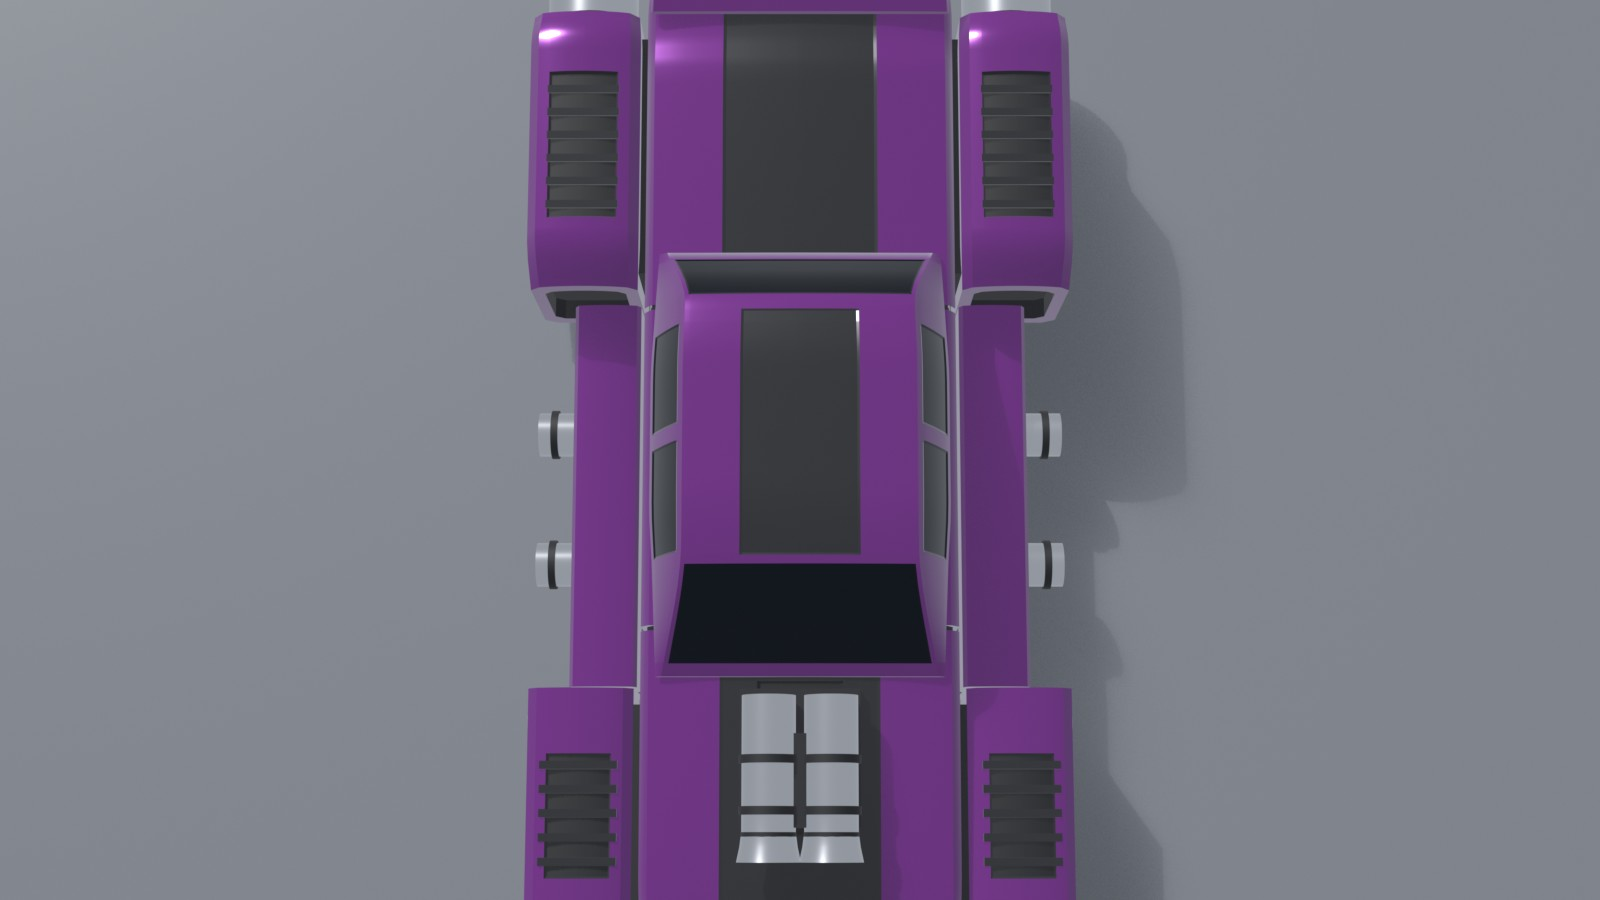
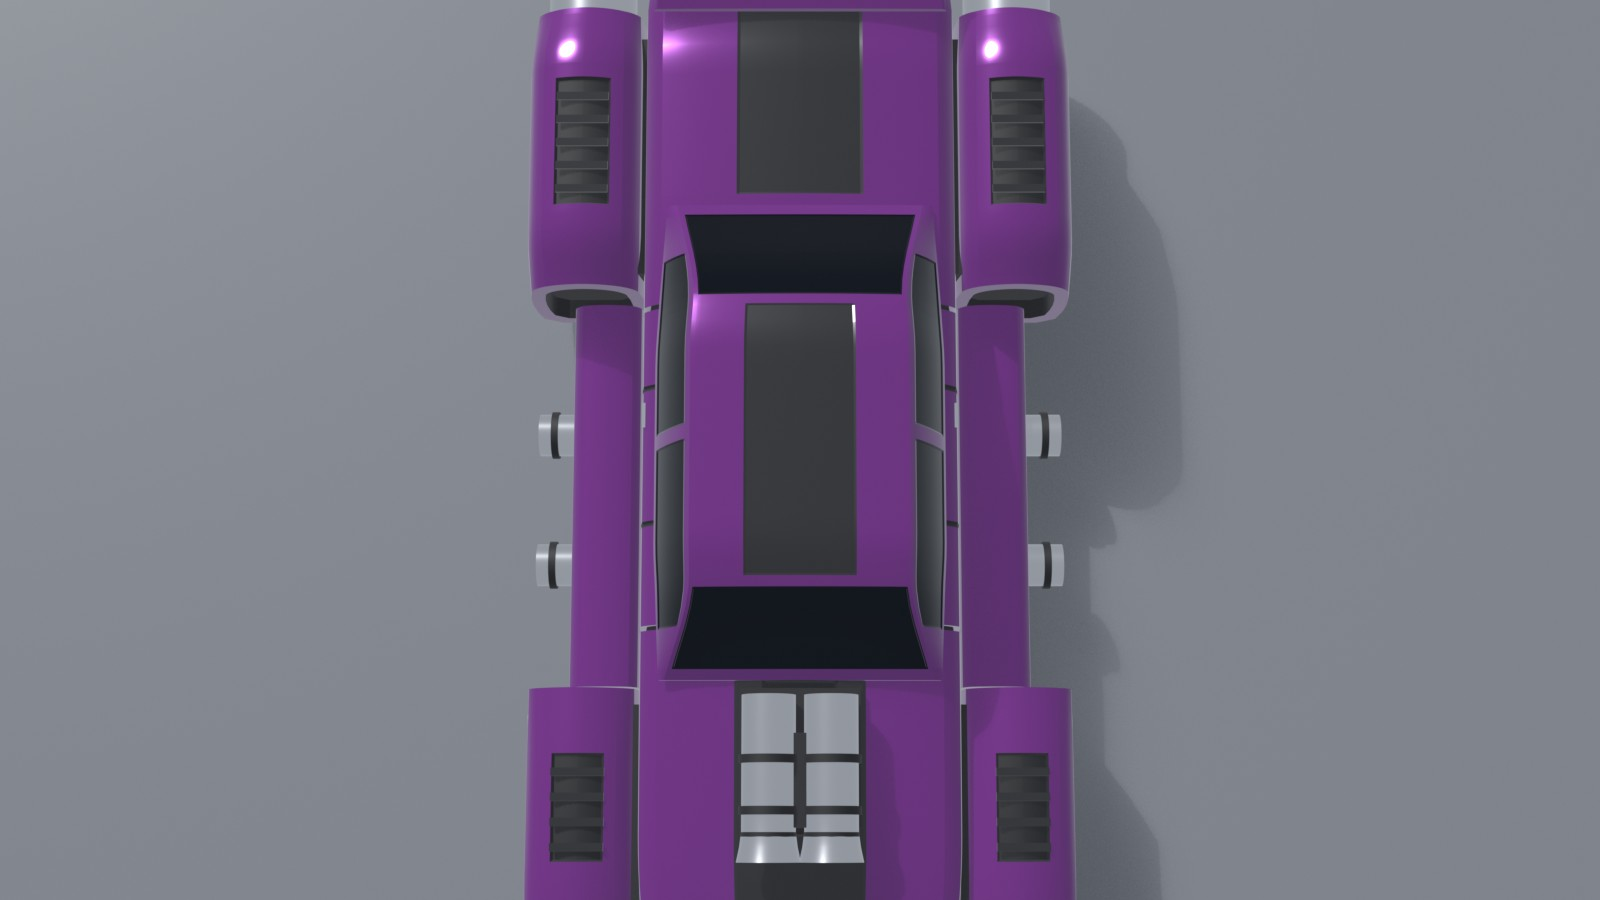
mesh: Brawler pass 2, less boxy: body tumblehome and crown, fender-shaped pods, longer glasshouse

diff --git a/scripts/exotic_category/categories/muscle/mesh/muscle_cars.py b/scripts/exotic_category/categories/muscle/mesh/muscle_cars.py
@@ -3,9 +3,12 @@
     import muscle_cars; muscle_cars.build_all()
 
 Hero car first (gate 1): F = muscle_06 Brawler, after the Dodge Challenger SRT Demon. STD trim only so far.
-Design language of F: blunt upright nose with a full-width slot grille, halo lamp pairs on the front pods,
-twin shaker turbine through the bonnet, flat slab sides, short notchback cabin, square tail with one
-full-width light bar, giant round barrels on the rear pods, fat bazookas in the sills, ducktail lip.
+Design language of F: blunt nose that tapers in plan, deep full-width slot grille, halo lamp pairs on the
+front pods, twin shaker turbine through a raised bonnet bulge, long bonnet, low glasshouse with a fast rear
+window and a short deck, hips that rise over the rear pods, square tail with one full-width light bar,
+giant round barrels on the rear pods, fat bazookas in the sills, ducktail lip.
+Pass 2 (2026-10-04): less boxy. The body has tumblehome and crown, the pods are fenders with rounded
+shoulders instead of plain boxes, and the cabin is longer and lower at the back.
 """
 import os
 
@@ -73,154 +76,161 @@ def flange(z0, z1, y0, y1):
         "detail", mirror=True)
 
 
-def tub():
-    """The body between the two seams. Every cockpit uses it unchanged."""
-    Hull([(Z_F, SEAM_F), (Z_R, SEAM_R)]).build("tub", "primary", t0=Z_F + GAP, t1=Z_R - GAP, regions=[
-        R(Z_F + GAP, Z_R - GAP, 0.0, 2.35, "secondary", 0.02)])
+def tub(doors=(-2.1, 1.3)):
+    """The body between the two seams, with door shut lines. Every cockpit uses the same section."""
+    regs = [R(Z_F + GAP, Z_R - GAP, 0.0, 2.0, "secondary", 0.02)]
+    regs += [R(z, z + 0.14, 2.05, 3.95, "detail", 0.03) for z in doors]
+    Hull([(Z_F, SEAM_F), (Z_R, SEAM_R)]).build("tub", "primary", t0=Z_F + GAP, t1=Z_R - GAP, regions=regs)
     Hull([(Z_F - 0.08, SEAM_F), (Z_R + 0.08, SEAM_R)]).build("liner", "detail", scale=0.96)
+    box("handle", (M.BODY_W - 0.02, 2.62, doors[1] - 0.6), (0.08, 0.1, 0.6), "metal", mirror=True)
 
 
 # ---------------------------------------------------------------- car F: Brawler (muscle_06)
 
 def f_cockpit():
-    """Short upright notchback cabin with a low glasshouse."""
+    """Low glasshouse: raked windscreen, long doors, a fast rear window down to a short deck."""
     K.begin("F", "COCKPIT")
     tub()
-    gh = Hull([(-5.8, dict(w=3.5, yb=2.9, yt=3.02, ys=2.95, tum=0.15, drop=0.02)),
-               (-3.1, dict(w=3.6, yt=5.1, tum=0.8)),
-               (-1.6, dict(yt=5.34)), (1.4, dict(yt=5.34)),
-               (3.0, dict(w=3.6, yt=5.12, tum=0.85)),
-               (4.7, dict(w=3.5, yb=2.95, yt=3.2, ys=3.05, tum=0.2, drop=0.03))],
-              w=3.68, yb=2.9, ys=3.12, rb=0.04, tum=0.9, drop=0.1, wcf=0.78, d2=0.03, crown=0.025)
+    gh = Hull([(-5.9, dict(w=3.42, yb=3.1, yt=3.2, ys=3.14, tum=0.15, drop=0.02)),
+               (-3.7, dict(w=3.5, yt=5.2, tum=0.9)),
+               (-2.6, dict(yt=5.48)), (1.8, dict(yt=5.48)),
+               (2.9, dict(w=3.5, yt=5.3, tum=0.95)),
+               (5.9, dict(w=3.3, yb=3.15, yt=3.3, ys=3.2, tum=0.25, drop=0.03))],
+              w=3.55, yb=3.1, ys=3.3, rb=0.04, tum=0.95, drop=0.12, wcf=0.78, d2=0.03, crown=0.04)
     gh.build("cabin", "primary", regions=[
-        R(-5.5, -3.3, 4.12, 6.0, "glass", 0.03),           # windscreen
-        R(-3.0, -0.35, 3.1, 3.88, "glass", 0.03, side=0),   # door glass
-        R(0.05, 2.5, 3.1, 3.88, "glass", 0.03, side=0),     # quarter glass
-        R(3.2, 4.45, 4.12, 6.0, "glass", 0.03),             # rear window
-        R(-3.1, 2.8, 5.1, 6.0, "secondary", 0.02)])         # roof stripe
+        R(-5.65, -3.85, 4.12, 6.0, "glass", 0.03),    # windscreen
+        R(-4.7, -0.35, 3.08, 3.9, "glass", 0.03),     # door glass, follows the screen pillar
+        R(0.0, 4.4, 3.08, 3.9, "glass", 0.03),        # quarter glass, follows the roof down
+        R(3.15, 5.6, 4.15, 6.0, "glass", 0.03),       # rear window
+        R(-3.6, 2.9, 5.1, 6.0, "secondary", 0.02)])   # roof stripe
 
 
 def f_nose():
-    """Blunt upright nose, full-width slot grille, long flat bonnet with the twin shaker turbine."""
+    """Nose that tapers in plan, deep slot grille, long bonnet with a raised bulge and the twin shaker turbine."""
     K.begin("F", "NOSE")
-    nose = Hull([(-12.4, dict(w=3.8, yb=0.1, yt=2.5, ys=2.05, rb=0.2, tum=0.12, drop=0.12)),
-                 (-10.6, dict(w=3.9, yb=-0.3, yt=2.72, ys=2.2, rb=0.35)),
-                 (Z_F, SEAM_F)], **{**SEAM_F})
+    nose = Hull([(-12.5, dict(w=3.55, yb=0.2, yt=2.55, ys=2.0, rb=0.25, tum=0.25, drop=0.18)),
+                 (-11.6, dict(w=3.8, yb=-0.1, yt=2.75, ys=2.15, rb=0.35)),
+                 (-9.5, dict(w=3.9, yt=2.95, ys=2.3)),
+                 (Z_F, SEAM_F)], **SEAM_F)
     nose.build("skin", "primary", t1=Z_F - GAP, caps=(False, False), regions=[
-        R(-12.4, Z_F - GAP, 0.0, 2.35, "secondary", 0.02),
-        R(-12.4, Z_F - GAP, 5.0, 6.0, "secondary", 0.02),
-        R(-9.6, -5.9, 5.45, 6.0, "detail", 0.1)])
+        R(-12.5, Z_F - GAP, 0.0, 2.0, "secondary", 0.02),
+        R(-12.3, Z_F - GAP, 5.15, 6.0, "secondary", -0.07),   # raised bonnet bulge, in the stripe colour
+        R(-9.6, -5.9, 5.5, 6.0, "detail", 0.1)])
     nose.cap("grilleback", "min", "detail")
     # brow and bumper stand ahead of the grille back, so the slot between them is a real recess
-    Hull([(-13.0, dict(yb=2.05, yt=2.34, ys=2.2)), (-12.4, dict(yb=2.0, yt=2.5, ys=2.25))], w=3.8, rb=0.04, tum=0.1,
-         drop=0.08, wcf=0.7, d2=0.02, crown=0.02).build("brow", "primary", regions=[
-             R(-13.0, -12.4, 5.0, 6.0, "secondary", 0.0)])
-    Hull([(-13.15, dict(yb=0.4, yt=1.35, ys=1.1)), (-12.4, dict(yb=0.1, yt=1.5, ys=1.2))], w=3.8, rb=0.15, tum=0.1,
-         drop=0.08, wcf=0.7, d2=0.0, crown=0.0).build("bumper", "primary")
-    for i, y in enumerate((1.62, 1.84)):
-        box(f"bar{i}", (0, y, -12.62), (7.5, 0.06, 0.12), "metal")
-    box("intake", (0, 0.86, -13.17), (4.6, 0.46, 0.08), "detail")
-    Loft([(-13.5, dict(w=3.2)), (-12.7, dict(w=3.85)), (-11.2, dict(w=3.9))], yb=-0.5, yt=-0.38, nt=5,
+    Hull([(-13.05, dict(w=3.42, yb=2.1, yt=2.38, ys=2.22)), (-12.5, dict(w=3.55, yb=2.05, yt=2.55, ys=2.28))], rb=0.04,
+         tum=0.2, drop=0.1, wcf=0.7, d2=0.02, crown=0.03).build("brow", "primary")
+    Hull([(-13.2, dict(w=3.38, yb=0.5, yt=1.4, ys=1.15)), (-12.5, dict(w=3.55, yb=0.2, yt=1.55, ys=1.25))], rb=0.3,
+         tum=0.15, drop=0.1, wcf=0.7, d2=0.0, crown=0.02).build("bumper", "primary")
+    for i, y in enumerate((1.7, 1.92)):
+        box(f"bar{i}", (0, y, -12.72), (7.0, 0.06, 0.12), "metal")
+    box("intake", (0, 0.94, -13.22), (4.2, 0.4, 0.08), "detail")
+    Loft([(-13.55, dict(w=3.0)), (-12.8, dict(w=3.6)), (-11.2, dict(w=3.85))], yb=-0.5, yt=-0.38, nt=5,
          nb=5).build("chin", "secondary")
     # twin shaker turbine through the bonnet
-    box("shakerbase", (0, 3.06, -7.75), (2.9, 0.34, 3.3), "detail")
-    for name, x in (("shaker", 0.74),):
-        t = Loft([(-10.2, dict(w=0.76, yb=3.02, yt=4.54)), (-9.5, dict(w=0.64, yb=3.14, yt=4.42)), (-6.3, {})], cx=x, w=0.64,
-                 yb=3.14, yt=4.42, nt=2, nb=2, yw=0.5)
-        t.build(name, "metal", mirror=True, caps=(False, True))
-        t.throat(name + "in", "min", lip="metal", wall="detail", back="detail", scale=0.86, depth=0.7, mirror=True)
-        tube(-10.0, -9.5, x, 3.78, 0.2).build(name + "hub", "metal", mirror=True)
-        for i, z in enumerate((-9.1, -7.9)):
-            tube(z, z + 0.2, x, 3.78, 0.71).build(f"{name}band{i}", "detail", mirror=True)
-    box("shakertie", (0, 3.78, -8.3), (0.5, 0.5, 2.2), "detail")
+    y = 3.95
+    box("shakerbase", (0, y - 0.72, -7.75), (2.9, 0.34, 3.3), "detail")
+    t = Loft([(-10.2, dict(w=0.76, yb=y - 0.76, yt=y + 0.76)), (-9.5, {}), (-6.3, {})], cx=0.74, w=0.64, yb=y - 0.64,
+             yt=y + 0.64, nt=2, nb=2, yw=0.5)
+    t.build("shaker", "metal", mirror=True, caps=(False, True))
+    t.throat("shakerin", "min", lip="metal", wall="detail", back="detail", scale=0.86, depth=0.7, mirror=True)
+    tube(-10.0, -9.5, 0.74, y, 0.2).build("shakerhub", "metal", mirror=True)
+    for i, z in enumerate((-9.1, -7.9)):
+        tube(z, z + 0.2, 0.74, y, 0.71).build(f"shakerband{i}", "detail", mirror=True)
+    box("shakertie", (0, y, -8.3), (0.5, 0.5, 2.2), "detail")
 
 
-def f_pod(pod, z0, z1, shield, vent):
-    """Square bolted-on engine box: black lower band, sunk heat shield with bolts, slatted top vent."""
-    regs = [R(z0 + 0.15, z1 - 0.15, 1.0, 2.3, "secondary", 0.02),
-            R(shield[0], shield[1], 2.3, 2.9, "detail", 0.1, side=1),
-            R(vent[0], vent[1], 4.5, 6.0, "detail", 0.12)]
-    return regs
+def f_pod_regions(z0, z1, shield, vent):
+    """Engine fender: black rocker, a sunk heat shield on the flank and a slatted vent on top."""
+    return [R(z0 + 0.15, z1 - 0.15, 1.0, 2.0, "secondary", 0.02),
+            R(shield[0], shield[1], 2.25, 2.9, "detail", 0.1, side=1),
+            R(vent[0], vent[1], 4.6, 6.0, "detail", 0.12)]
 
 
 def f_fpod():
+    """Front engine fender: a flat lamp face with a halo pair, rounded shoulders, rising to the pod face."""
     K.begin("F", "FPOD")
-    pod = Hull([(-12.6, dict(w=1.2, yb=-0.6, yt=1.75, ys=1.4)), (-11.3, dict(yb=-1.2)), (POD_FZ, SIDE_F)], **SIDE_F)
+    pod = Hull([(-12.7, dict(cx=5.38, w=1.2, yb=-0.75, yt=1.85, ys=1.25, rb=0.3, tum=0.25, drop=0.18)),
+                (-12.2, dict(cx=5.4, w=1.28, yb=-1.05, yt=2.1, ys=1.45)),
+                (-10.5, dict(w=1.32, yt=2.35)), (-8.0, dict(w=1.32, yt=2.42)),
+                (POD_FZ, SIDE_F)], **SIDE_F)
     pod.build("skin", "primary", mirror=True, caps=(True, False),
-              regions=f_pod(pod, -12.5, POD_FZ, (-10.8, -7.3), (-10.6, -7.6)))
+              regions=f_pod_regions(-12.75, POD_FZ, (-10.4, -7.3), (-10.2, -7.6)))
     pod.throat("noz", "max", lip="secondary", back="thrust", scale=0.62, depth=0.5, mirror=True)
-    for i, x in enumerate((4.88, 5.92)):
-        halo(f"halo{i}", x, 0.95, -12.95, 0.42)
-    box("mouth", (5.4, -0.05, -12.62), (1.9, 0.5, 0.1), "detail", mirror=True)
-    for i, y in enumerate((-0.15, 0.05)):
-        box(f"mouthbar{i}", (5.4, y, -12.66), (1.9, 0.05, 0.1), "metal", mirror=True)
-    for i in range(5):
-        box(f"slat{i}", (5.4, 2.14, -10.2 + i * 0.58), (1.9, 0.06, 0.2), "secondary", mirror=True)
-    bolts("bolt", 6.66, (0.2, 1.35), (-10.55, -7.55))
-    xt = xtube(6.3, 6.9, -6.75, -0.35, 0.5)
+    for i, x in enumerate((4.9, 5.86)):
+        halo(f"halo{i}", x, 0.95, -13.0, 0.42)
+    box("mouth", (5.38, -0.2, -12.74), (1.7, 0.4, 0.1), "detail", mirror=True)
+    box("mouthbar", (5.38, -0.2, -12.78), (1.7, 0.05, 0.1), "metal", mirror=True)
+    for i in range(4):
+        box(f"slat{i}", (5.4, 2.36, -9.85 + i * 0.6), (1.3, 0.06, 0.2), "secondary", mirror=True)
+    bolts("bolt", 6.66, (0.15, 1.3), (-10.15, -7.55))
+    xt = xtube(6.3, 6.9, -6.75, -0.35, 0.48)
     xt.build("sidepipe", "metal", mirror=True, caps=(True, False))
     xt.throat("sidepipen", "max", lip="metal", wall="detail", back="detail", scale=0.8, depth=0.4, mirror=True)
-    flange(-11.4, -6.4, -0.3, 1.9)
-    lift_glow(pod, [(-10.6, -7.4)])
+    flange(-11.2, -6.4, -0.3, 1.9)
+    lift_glow(pod, [(-10.4, -7.4)])
 
 
 def f_rpod():
+    """Rear engine fender: a tall rounded haunch with a giant barrel at the tail."""
     K.begin("F", "RPOD")
-    big = dict(w=1.4, yb=-1.5, yt=3.3, ys=2.75)
-    pod = Hull([(POD_RZ, SIDE_R), (5.1, big), (10.3, big), (11.1, dict(w=1.35, yb=-1.2, yt=3.0, ys=2.5))], **SIDE_R)
+    big = dict(w=1.4, yb=-1.5, yt=3.45, ys=2.5)
+    pod = Hull([(POD_RZ, SIDE_R), (5.4, big), (9.6, big), (11.2, dict(cx=5.4, w=1.3, yb=-1.1, yt=3.0, ys=2.3))],
+               **SIDE_R)
     pod.build("skin", "primary", mirror=True, caps=(False, True),
-              regions=f_pod(pod, POD_RZ, 11.1, (5.7, 9.7), (5.6, 9.4)))
+              regions=f_pod_regions(POD_RZ, 11.2, (5.8, 9.6), (5.9, 9.2)))
     pod.throat("intake", "min", lip="primary", wall="detail", back="detail", scale=0.76, depth=0.5, mirror=True)
-    for i in range(6):
-        box(f"slat{i}", (5.45, 3.2, 5.95 + i * 0.6), (1.8, 0.06, 0.2), "secondary", mirror=True)
-    bolts("bolt", 6.81, (0.1, 1.85), (5.95, 9.45))
-    barrel("barrel", 10.3, 12.4, 5.45, 0.85, 1.18, depth=0.8)
+    for i in range(5):
+        box(f"slat{i}", (5.45, 3.4, 6.3 + i * 0.6), (1.3, 0.06, 0.2), "secondary", mirror=True)
+    bolts("bolt", 6.75, (0.0, 1.75), (6.05, 9.35))
+    barrel("barrel", 10.3, 12.5, 5.45, 0.9, 1.15, depth=0.8)
     flange(4.4, 10.6, -0.3, 2.3)
-    lift_glow(pod, [(5.6, 9.6)])
+    lift_glow(pod, [(5.8, 9.6)])
 
 
 def f_stab():
     """Sill unit with two fat bazookas firing sideways."""
     K.begin("F", "STAB")
-    sill = Hull([(POD_FZ + 0.1, {}), (POD_RZ - 0.1, {})], cx=4.95, w=0.85, yb=-1.2, yt=1.0, ys=0.72, rb=0.2, tum=0.1,
-                drop=0.08, wcf=0.6, d2=0.0, crown=0.0)
+    sill = Hull([(POD_FZ + 0.1, {}), (POD_RZ - 0.1, {})], cx=4.95, w=0.85, yb=-1.2, yt=1.0, ys=0.6, rb=0.3, tum=0.2,
+                drop=0.12, wcf=0.6, d2=0.0, crown=0.04)
     sill.build("skin", "primary", mirror=True, regions=[
-        R(POD_FZ + 0.1, POD_RZ - 0.1, 1.0, 2.25, "secondary", 0.02),
-        R(-4.3, 2.3, 2.35, 2.92, "detail", 0.08, side=1)])
+        R(POD_FZ + 0.1, POD_RZ - 0.1, 1.0, 2.0, "secondary", 0.02),
+        R(-4.3, 2.3, 2.2, 2.9, "detail", 0.08, side=1)])
     for i, z in enumerate((-2.7, 0.7)):
-        bazooka(f"bazooka{i}", 5.3, 6.75, z, -0.12, 0.56)
-    bolts("bolt", 5.78, (0.45,), (-4.1, -1.0, 2.1), size=0.12)
+        bazooka(f"bazooka{i}", 5.3, 6.75, z, -0.2, 0.54)
+    bolts("bolt", 5.76, (0.38,), (-4.1, -1.0, 2.1), size=0.12)
     lift_glow(sill, [(-5.0, -3.6), (1.6, 3.0)])
 
 
 def f_tail():
-    """Square-cut tail with one full-width light bar. The lower rear centre is open for the overdrive."""
+    """Short deck, hips level with the rear pods, square tail with one full-width light bar."""
     K.begin("F", "TAIL")
-    tail = Hull([(Z_R, SEAM_R), (9.6, dict(yt=3.15)), (10.5, dict(yb=-0.3)), (11.2, dict(yb=1.25, rb=0.2)),
-                 (12.2, dict(w=3.8, yb=1.3, yt=3.2, ys=2.6, rb=0.2, tum=0.15, drop=0.12))], **SEAM_R)
+    tail = Hull([(Z_R, SEAM_R), (6.5, dict(yt=3.3)), (9.8, dict(yt=3.3)), (10.6, dict(yb=-0.3)),
+                 (11.3, dict(yb=1.3, rb=0.25)),
+                 (12.3, dict(w=3.7, yb=1.35, yt=3.3, ys=2.6, rb=0.25, tum=0.3, drop=0.2))], **SEAM_R)
     tail.build("skin", "primary", t0=Z_R + GAP, caps=(False, False), regions=[
-        R(Z_R + GAP, 12.2, 0.0, 2.35, "secondary", 0.02),
-        R(Z_R + GAP, 12.2, 5.0, 6.0, "secondary", 0.02)])
+        R(Z_R + GAP, 12.3, 0.0, 2.0, "secondary", 0.02),
+        R(6.2, 12.3, 5.15, 6.0, "secondary", 0.02)])
     tail.throat("fascia", "max", lip="primary", wall="detail", back="detail", scale=0.9, depth=0.25)
-    box("lightbar", (0, 2.4, 12.02), (6.5, 0.3, 0.14), "lights_red")
-    box("lightbarframe", (0, 2.4, 11.99), (6.8, 0.5, 0.1), "secondary")
+    box("lightbar", (0, 2.45, 12.12), (6.2, 0.3, 0.14), "lights_red")
+    box("lightbarframe", (0, 2.45, 12.09), (6.5, 0.5, 0.1), "secondary")
 
 
 def f_boost():
     """Two huge barrels close together under the bumper."""
     K.begin("F", "BOOST")
-    Hull([(10.8, {}), (12.05, {})], w=2.6, yb=-0.45, yt=1.2, rb=0.25, ys=0.9, tum=0.15, drop=0.0, wcf=0.5, d2=0.0,
+    Hull([(10.8, {}), (12.1, {})], w=2.6, yb=-0.45, yt=1.25, rb=0.3, ys=0.9, tum=0.2, drop=0.0, wcf=0.5, d2=0.0,
          crown=0.0).build("housing", "secondary")
-    box("trim", (0, 1.24, 11.6), (5.0, 0.08, 0.8), "primary")
-    barrel("barrel", 11.5, 13.15, 0.86, 0.36, 0.74, depth=0.55)
+    box("trim", (0, 1.29, 11.6), (4.8, 0.08, 0.8), "primary")
+    barrel("barrel", 11.5, 13.2, 0.86, 0.38, 0.74, depth=0.55)
 
 
 def f_wing():
     """One-piece ducktail lip."""
     K.begin("F", "WING")
-    Hull([(11.0, dict(yt=3.24, ys=3.1)), (12.4, dict(w=3.7, yt=3.85, ys=3.45))], w=3.78, yb=3.04, rb=0.02, tum=0.06,
-         drop=0.03, wcf=0.7, d2=0.01, crown=0.02).build("lip", "primary")
-    box("gurney", (0, 3.87, 12.36), (7.3, 0.09, 0.09), "secondary")
+    Hull([(11.0, dict(yt=3.42, ys=3.3)), (12.5, dict(w=3.6, yt=4.05, ys=3.6))], w=3.7, yb=3.22, rb=0.02, tum=0.1,
+         drop=0.04, wcf=0.7, d2=0.01, crown=0.03).build("lip", "primary")
+    box("gurney", (0, 4.07, 12.46), (7.1, 0.09, 0.09), "secondary")
 
 
 def car_f():

diff --git a/scripts/exotic_category/categories/muscle/mesh/musclekit.py b/scripts/exotic_category/categories/muscle/mesh/musclekit.py
@@ -63,29 +63,30 @@ BODY_W = 3.9                  # half width of the body side
 POD_IN = 4.1                  # inboard face of every pod and sill unit
 GAP = K.GAP
 
-# Body seams: fixed Hull sections shared by every cockpit, nose and tail.
-SEAM_F = dict(cx=0.0, w=BODY_W, yb=-0.4, yt=3.0, rb=0.4, ys=2.4, tum=0.22, drop=0.2, wcf=0.7, d2=0.05,
-              crown=0.03, cs=0.0)
-SEAM_R = dict(SEAM_F, yt=3.0)
+# Body seams: fixed Hull sections shared by every cockpit, nose and tail. Round 2 of the frame (2026-10-04):
+# taller, with real tumblehome and crown, so the body reads as a car and not a slab.
+SEAM_F = dict(cx=0.0, w=BODY_W, yb=-0.4, yt=3.2, rb=0.5, ys=2.45, tum=0.42, drop=0.3, wcf=0.72, d2=0.06,
+              crown=0.05, cs=0.035)
+SEAM_R = dict(SEAM_F)
 # Pod end faces: the back of a front pod and the front of a rear pod start from these, so a sill unit
 # always meets the same two faces.
-SIDE_F = dict(cx=5.4, w=1.3, yb=-1.2, yt=2.2, rb=0.32, ys=1.75, tum=0.24, drop=0.16, wcf=0.6, d2=0.0, crown=0.0,
-              cs=0.0)
-SIDE_R = dict(SIDE_F, cx=5.45, w=1.35, yb=-1.4, yt=2.6, ys=2.15)
+SIDE_F = dict(cx=5.4, w=1.3, yb=-1.2, yt=2.3, rb=0.45, ys=1.6, tum=0.4, drop=0.28, wcf=0.6, d2=0.03, crown=0.08,
+              cs=0.04)
+SIDE_R = dict(SIDE_F, cx=5.45, w=1.35, yb=-1.4, yt=2.8, ys=2.0)
 POD_FZ, POD_RZ = -6.0, 4.0    # where those faces sit
 
 # Boxes are (|x| min, |x| max, y min, y max, z min, z max).
 K.ENV = {
     # tub, then the greenhouse (it laps onto the cowl and the deck)
-    "COCKPIT": [(0, 4.0, -0.6, 3.1, -4.7, 3.5), (0, 3.8, 2.7, 5.9, -5.9, 6.4)],
+    "COCKPIT": [(0, 4.0, -0.6, 3.3, -4.7, 3.5), (0, 3.8, 2.9, 6.1, -6.1, 6.6)],
     # body, chin and splitter zone, bonnet turbine zone
-    "NOSE": [(0, 3.95, -0.6, 3.2, -13.3, -4.5), (0, 3.95, -1.0, 0.6, -13.9, -10.5), (0, 2.2, 2.8, 4.9, -11.0, -5.2)],
+    "NOSE": [(0, 3.95, -0.6, 3.4, -13.4, -4.5), (0, 3.95, -1.0, 0.6, -13.9, -10.5), (0, 2.2, 3.0, 5.2, -11.0, -5.2)],
     # body, bed and buttress zone above the deck, diffuser zone
-    "TAIL": [(0, 3.95, -0.6, 3.5, 3.3, 12.6), (0, 3.95, 2.8, 5.7, 3.3, 9.0), (0, 3.95, -1.0, 1.0, 9.5, 13.4)],
-    "FPOD": [(3.95, 6.95, -1.7, 3.0, -13.0, -5.9)],
-    "RPOD": [(3.95, 6.95, -1.8, 3.8, 3.9, 12.6)],
+    "TAIL": [(0, 3.95, -0.6, 3.7, 3.3, 12.7), (0, 3.95, 3.0, 5.9, 3.3, 9.0), (0, 3.95, -1.0, 1.0, 9.5, 13.4)],
+    "FPOD": [(3.95, 6.95, -1.7, 3.1, -13.1, -5.9)],
+    "RPOD": [(3.95, 6.95, -1.8, 3.9, 3.9, 12.7)],
     "STAB": [(3.95, 6.95, -1.6, 1.9, -5.95, 3.95)],
     "BOOST": [(0, 2.9, -0.8, 1.5, 10.6, 13.4)],
-    "WING": [(0, 6.9, 2.6, 6.8, 8.5, 13.4)],
+    "WING": [(0, 6.9, 2.8, 6.9, 8.5, 13.4)],
     "FREE": [(0, 99, -99, 99, -99, 99)],
 }
